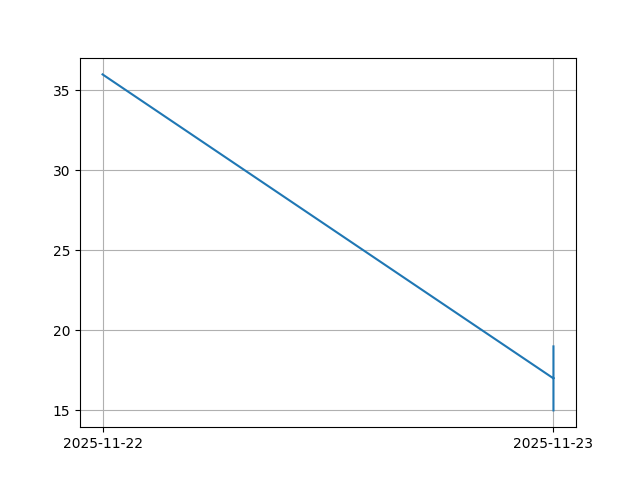
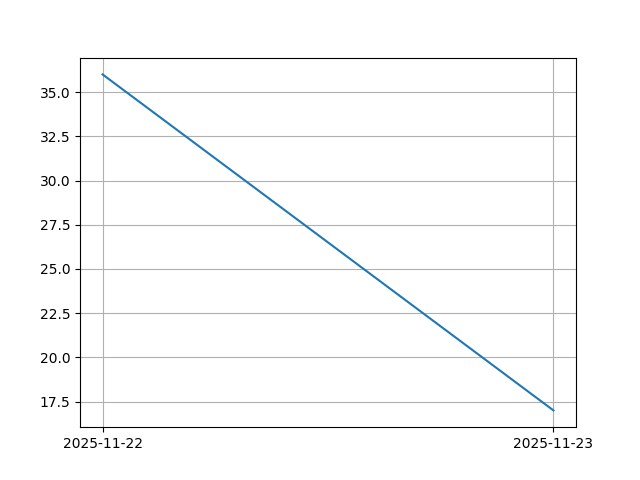
Totaled durations

diff --git a/app/main.py b/app/main.py
@@ -1,6 +1,7 @@
 from fastapi import FastAPI, HTTPException
 from fastapi.responses import FileResponse
 from datetime import datetime
+from collections import defaultdict
 from bson import ObjectId
 
 from .schemas import EntryStart, Entry, ProjectCreate, Project, EntryUpdate
@@ -11,9 +12,6 @@ import numpy as np
 import pandas as pd
 from pathlib import Path
 app = FastAPI(title="Time Tracker Graph")
-currentUser = "691c8bf8d691e46d00068bf3"
-
-
 
 #******************************Graphing functions****************************************
 
@@ -28,14 +26,19 @@ def get_graph_by_project(project_id: str):
     if not project:
         raise HTTPException(status_code=404, detail="Project not found")
 
-    #fetch entries belonging to project
-    entries = entries_collection.find({"project_group_id": ObjectId(project_id)})   
-    date = []
+    totals = defaultdict(int) 
+    date = [] 
     duration = []
+
+    entries = entries_collection.find({"project_group_id": project["_id"]})
     for e in entries:
         entry = entry_helper(e)
-        date.append(entry["starttime"].strftime("%Y-%m-%d"))
-        duration.append(entry["duration"])
+        date_time = entry["starttime"].strftime("%Y-%m-%d")
+        totals[date_time] += int(entry["duration"] or 0)
+
+    sorted_items = sorted(totals.items())
+    date = [d for d, _ in sorted_items]
+    duration = [v for _, v in sorted_items]   
     plt.plot(date, duration)
     plt.grid(True)
     plt.savefig("graph.png")
@@ -47,15 +50,22 @@ def get_graph_by_project(project_id: str):
 @app.get("/graph/user/{user_id}",status_code=200)
 def get_graph_by_user(user_id: str):
     projects = projects_collection.find({"owner_id": ObjectId(user_id)})
-    date = []
+    totals = defaultdict(int) 
+
+    date = [] 
     duration = []
+
     for project in projects:
         entries = entries_collection.find({"project_group_id": project["_id"]})
         for e in entries:
             entry = entry_helper(e)
-            date.append(entry["starttime"].strftime("%Y-%m-%d"))
-            duration.append(entry["duration"]) 
-    
+            date_time = entry["starttime"].strftime("%Y-%m-%d")
+            totals[date_time] += int(entry["duration"] or 0)
+
+    sorted_items = sorted(totals.items())
+    date = [d for d, _ in sorted_items]
+    duration = [v for _, v in sorted_items]    
+
     plt.plot(date, duration)
     plt.grid(True)
     plt.savefig("graph.png")
